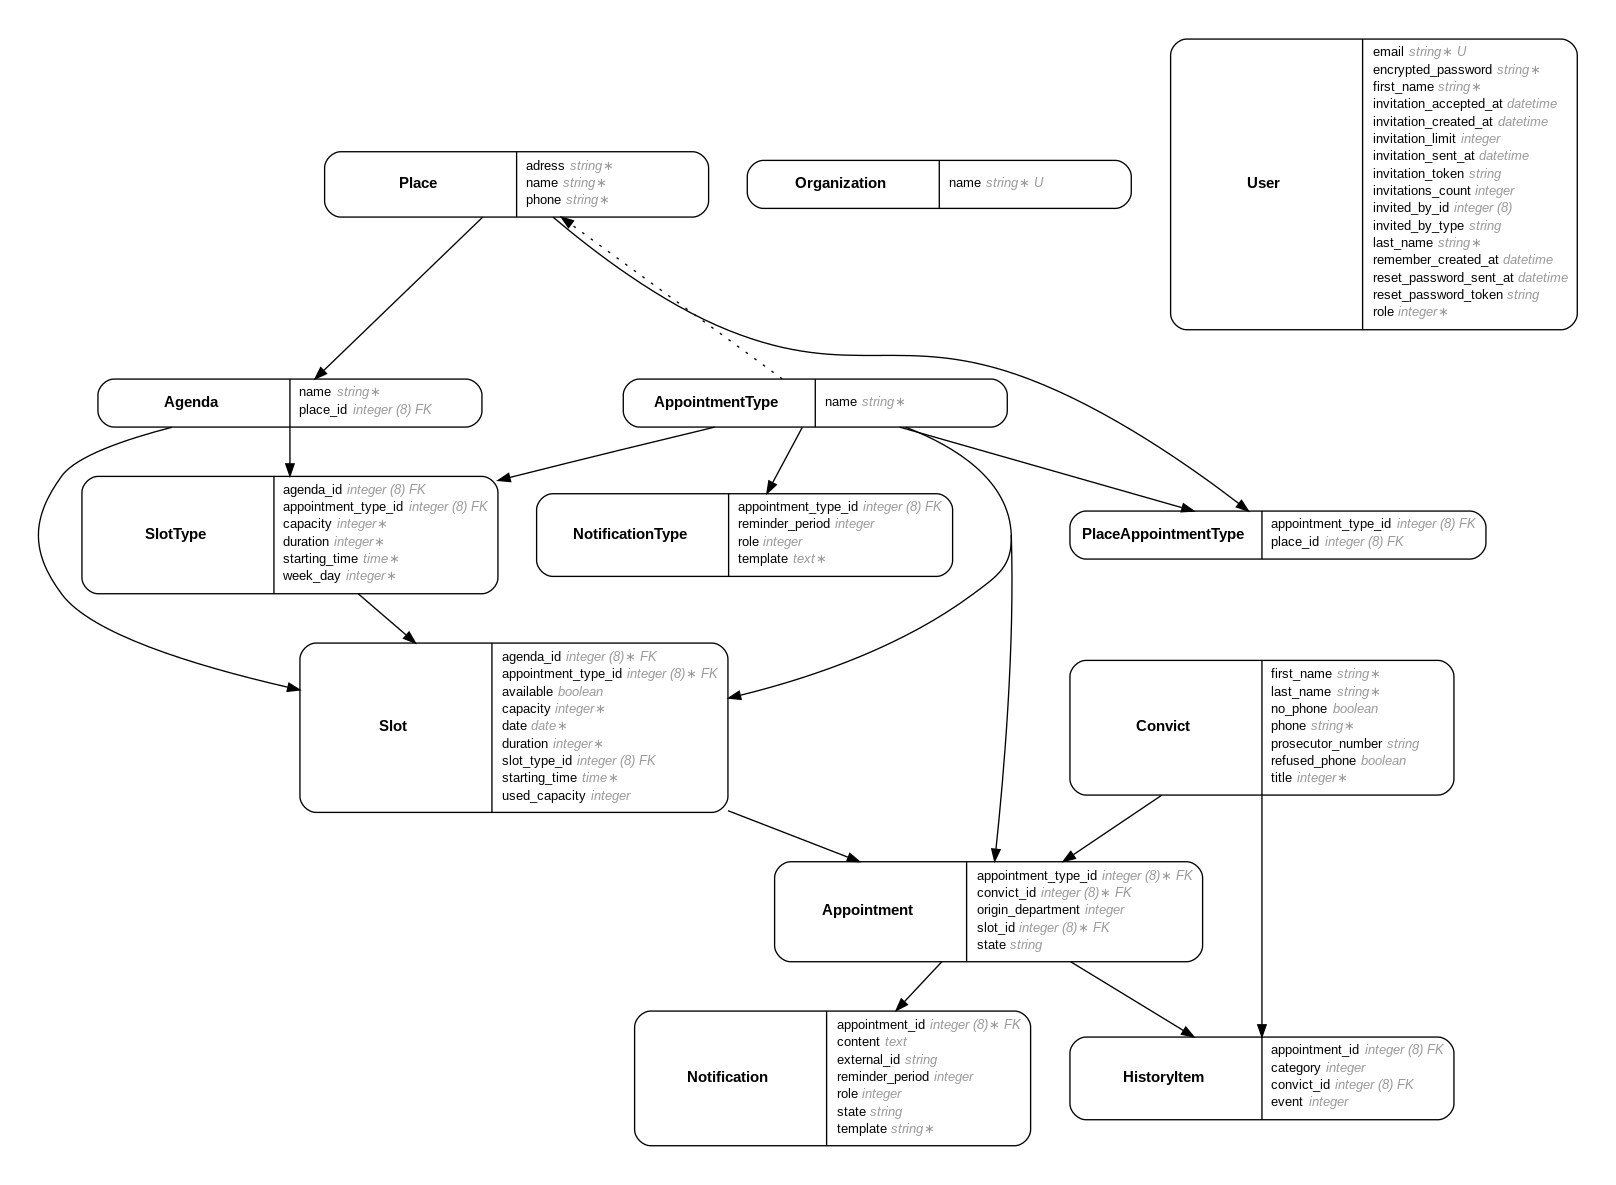
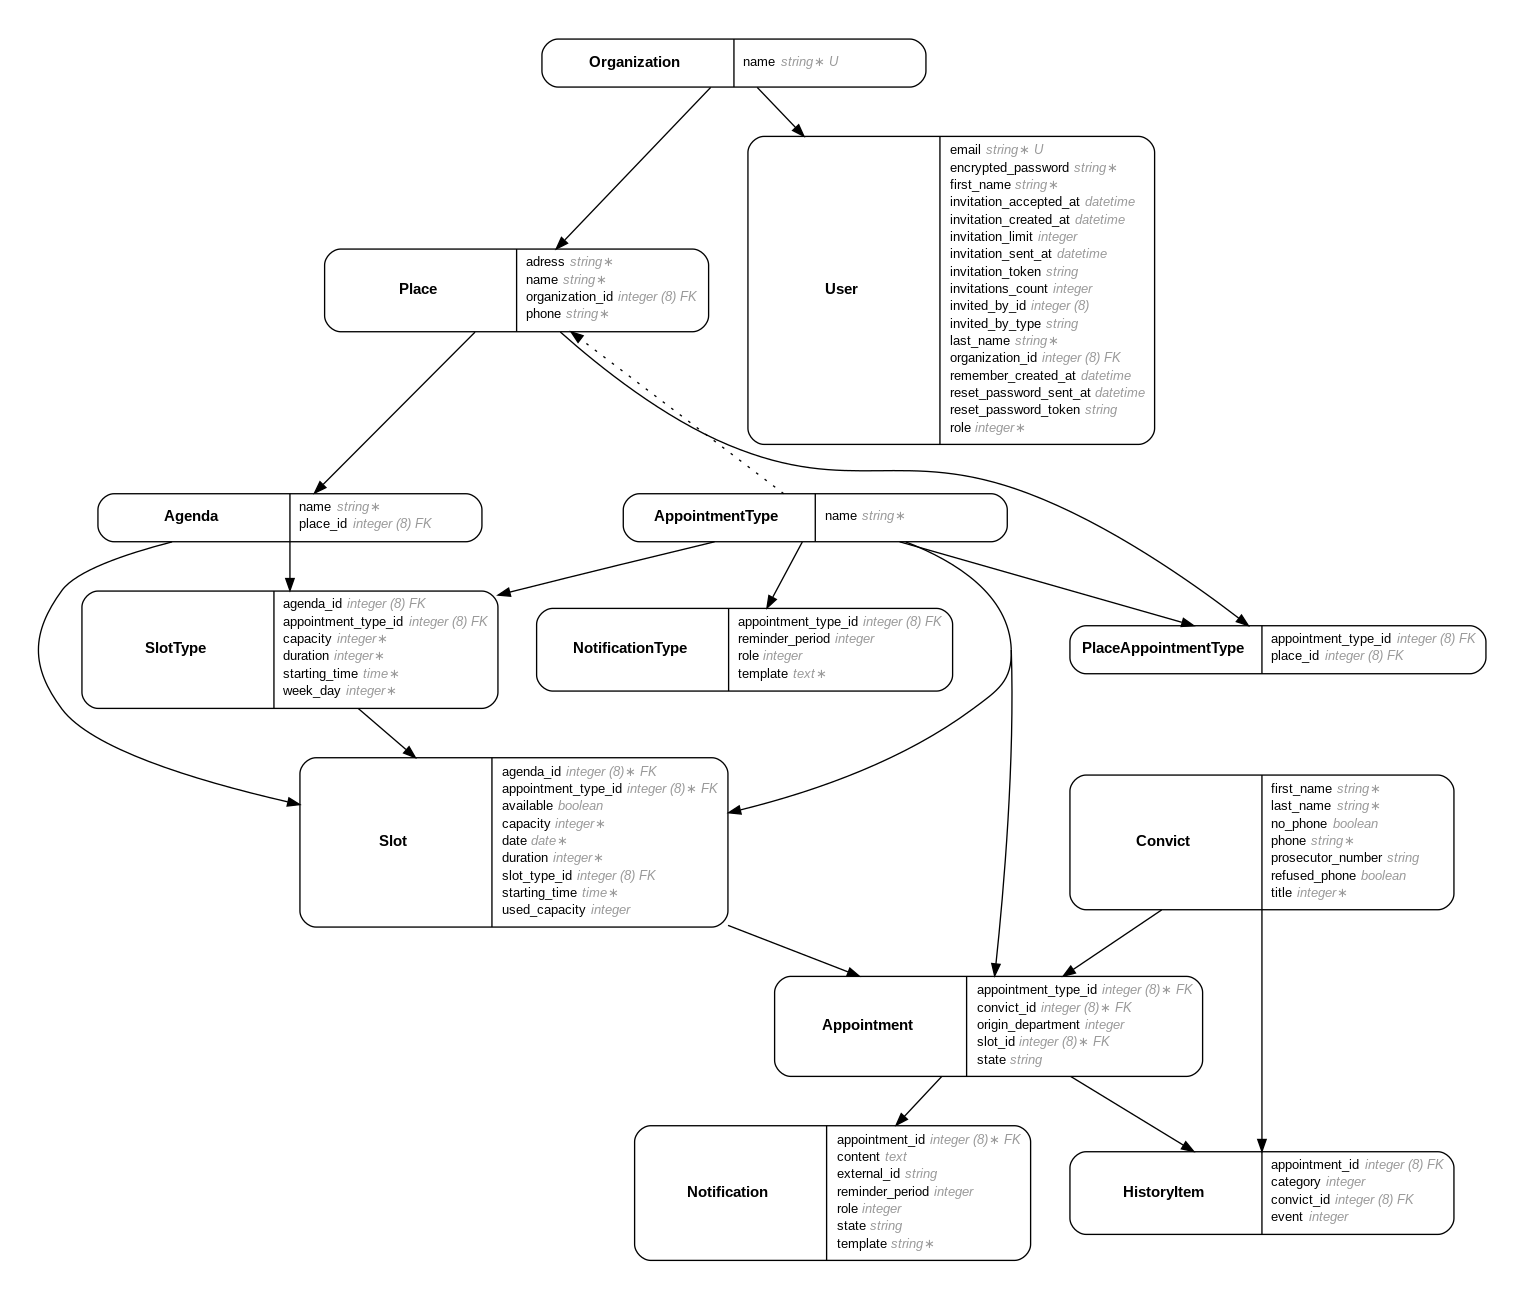
FK on users/places for organizatio

diff --git a/db/schema.rb b/db/schema.rb
@@ -10,7 +10,7 @@
 #
 # It's strongly recommended that you check this file into your version control system.
 
-ActiveRecord::Schema.define(version: 2021_09_29_063925) do
+ActiveRecord::Schema.define(version: 2021_09_29_065916) do
 
   # These are extensions that must be enabled in order to support this database
   enable_extension "plpgsql"
@@ -110,6 +110,8 @@ ActiveRecord::Schema.define(version: 2021_09_29_063925) do
     t.string "phone"
     t.datetime "created_at", precision: 6, null: false
     t.datetime "updated_at", precision: 6, null: false
+    t.bigint "organization_id"
+    t.index ["organization_id"], name: "index_places_on_organization_id"
   end
 
   create_table "slot_types", force: :cascade do |t|
@@ -161,10 +163,12 @@ ActiveRecord::Schema.define(version: 2021_09_29_063925) do
     t.string "invited_by_type"
     t.bigint "invited_by_id"
     t.integer "invitations_count", default: 0
+    t.bigint "organization_id"
     t.index ["email"], name: "index_users_on_email", unique: true
     t.index ["invitation_token"], name: "index_users_on_invitation_token", unique: true
     t.index ["invited_by_id"], name: "index_users_on_invited_by_id"
     t.index ["invited_by_type", "invited_by_id"], name: "index_users_on_invited_by"
+    t.index ["organization_id"], name: "index_users_on_organization_id"
     t.index ["reset_password_token"], name: "index_users_on_reset_password_token", unique: true
   end
 
@@ -187,9 +191,11 @@ ActiveRecord::Schema.define(version: 2021_09_29_063925) do
   add_foreign_key "history_items", "convicts"
   add_foreign_key "notification_types", "appointment_types"
   add_foreign_key "notifications", "appointments"
+  add_foreign_key "places", "organizations"
   add_foreign_key "slot_types", "agendas"
   add_foreign_key "slot_types", "appointment_types"
   add_foreign_key "slots", "agendas"
   add_foreign_key "slots", "appointment_types"
   add_foreign_key "slots", "slot_types"
+  add_foreign_key "users", "organizations"
 end

diff --git a/app/controllers/places_controller.rb b/app/controllers/places_controller.rb
@@ -49,8 +49,10 @@ class PlacesController < ApplicationController
   private
 
   def place_params
-    params.require(:place).permit(:name, :adress, :phone,
-                                  agendas_attributes: [:id, :name, :_destroy],
-                                  appointment_type_ids: [])
+    params.require(:place).permit(
+      :name, :adress, :phone, :organization_id,
+      agendas_attributes: [:id, :name, :_destroy],
+      appointment_type_ids: []
+    )
   end
 end

diff --git a/app/jobs/organization_seed_rattachment_job.rb b/app/jobs/organization_seed_rattachment_job.rb
@@ -1,0 +1,13 @@
+class OrganizationSeedRattachmentJob < ApplicationJob
+  def perform
+    #
+    # Job to be run to seed first Organization and rattach user/place to it
+    # Can be deleted after the deployment
+    #
+    organization = Organization.find_or_create_by name: 'SPIP 92'
+    return unless organization
+
+    User.update_all  organization_id: organization.id
+    Place.update_all organization_id: organization.id
+  end
+end

diff --git a/app/controllers/users_controller.rb b/app/controllers/users_controller.rb
@@ -37,7 +37,8 @@ class UsersController < ApplicationController
   private
 
   def user_params
-    params.require(:user).permit(:first_name, :last_name, :email, :role,
-                                 :password, :password_confirmation)
+    params.require(:user).permit(
+      :first_name, :last_name, :email, :role, :organization_id, :password, :password_confirmation
+    )
   end
 end

diff --git a/app/models/place.rb b/app/models/place.rb
@@ -7,6 +7,7 @@ class Place < ApplicationRecord
   has_many :agendas, dependent: :destroy
   has_many :place_appointment_types
   has_many :appointment_types, through: :place_appointment_types
+  belongs_to :organization
 
   accepts_nested_attributes_for :agendas, reject_if: :all_blank, allow_destroy: true
   accepts_nested_attributes_for :place_appointment_types

diff --git a/spec/models/place_spec.rb b/spec/models/place_spec.rb
@@ -8,7 +8,7 @@ RSpec.describe Place, type: :model do
 
   it { should have_many(:agendas) }
   it { should have_many(:appointment_types).through(:place_appointment_types) }
-  it { should belongs_to(:organization) }
+  it { should belong_to(:organization) }
 
   it_behaves_like 'normalized_phone'
 

diff --git a/spec/models/organization_spec.rb b/spec/models/organization_spec.rb
@@ -2,7 +2,6 @@ require 'rails_helper'
 
 RSpec.describe Organization, type: :model do
   it { should validate_presence_of(:name) }
-  it { should validate_uniqueness_of(:name) }
   it { should have_many(:users).dependent(:destroy) }
   it { should have_many(:places).dependent(:destroy) }
 end

diff --git a/app/models/user.rb b/app/models/user.rb
@@ -1,6 +1,8 @@
 class User < ApplicationRecord
   has_paper_trail
 
+  belongs_to :organization
+
   # Include default devise modules. Others available are:
   # :confirmable, :lockable, :trackable and :omniauthable
   devise :invitable, :database_authenticatable, :timeoutable,

diff --git a/spec/models/user_spec.rb b/spec/models/user_spec.rb
@@ -7,6 +7,6 @@ RSpec.describe User, type: :model do
   it { should validate_presence_of(:role) }
 
   it { should define_enum_for(:role).with_values(%i[admin bex cpip]) }
-  
-  it { should belongs_to(:organization) }
+
+  it { should belong_to(:organization) }
 end

diff --git a/db/migrate/20210929065916_add_references_to_organization_on_user_and_place.rb b/db/migrate/20210929065916_add_references_to_organization_on_user_and_place.rb
@@ -1,0 +1,6 @@
+class AddReferencesToOrganizationOnUserAndPlace < ActiveRecord::Migration[6.1]
+  def change
+    add_reference :users, :organization, foreign_key: true
+    add_reference :places, :organization, foreign_key: true
+  end
+end
